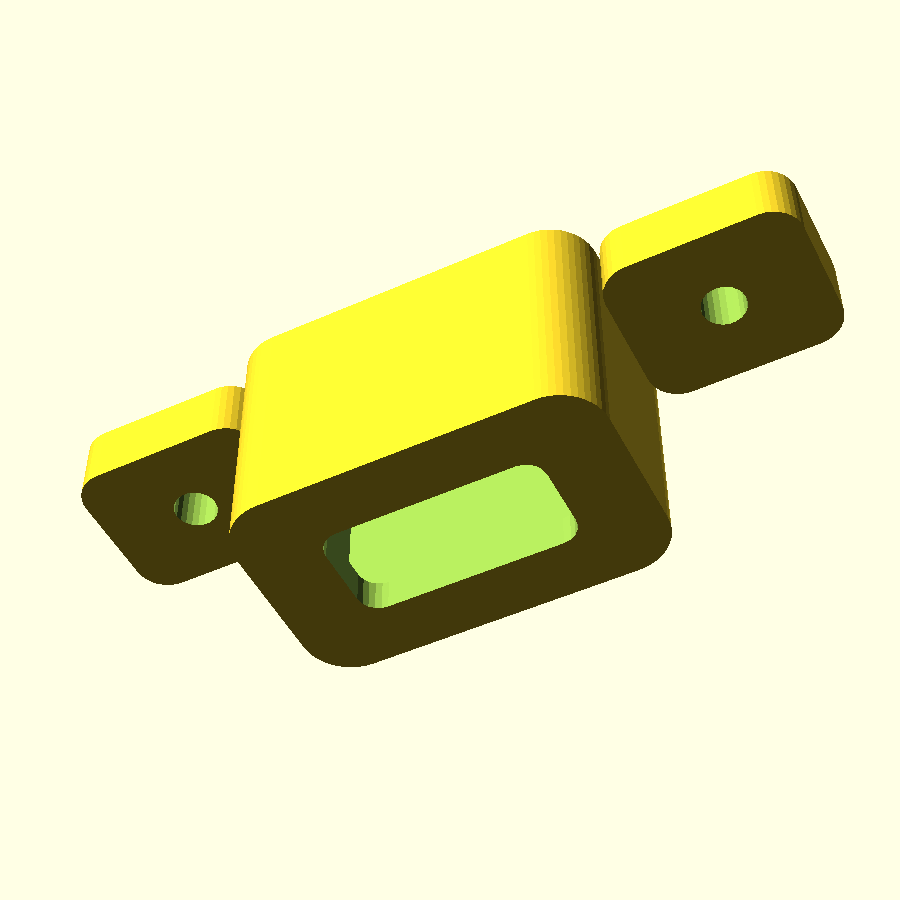
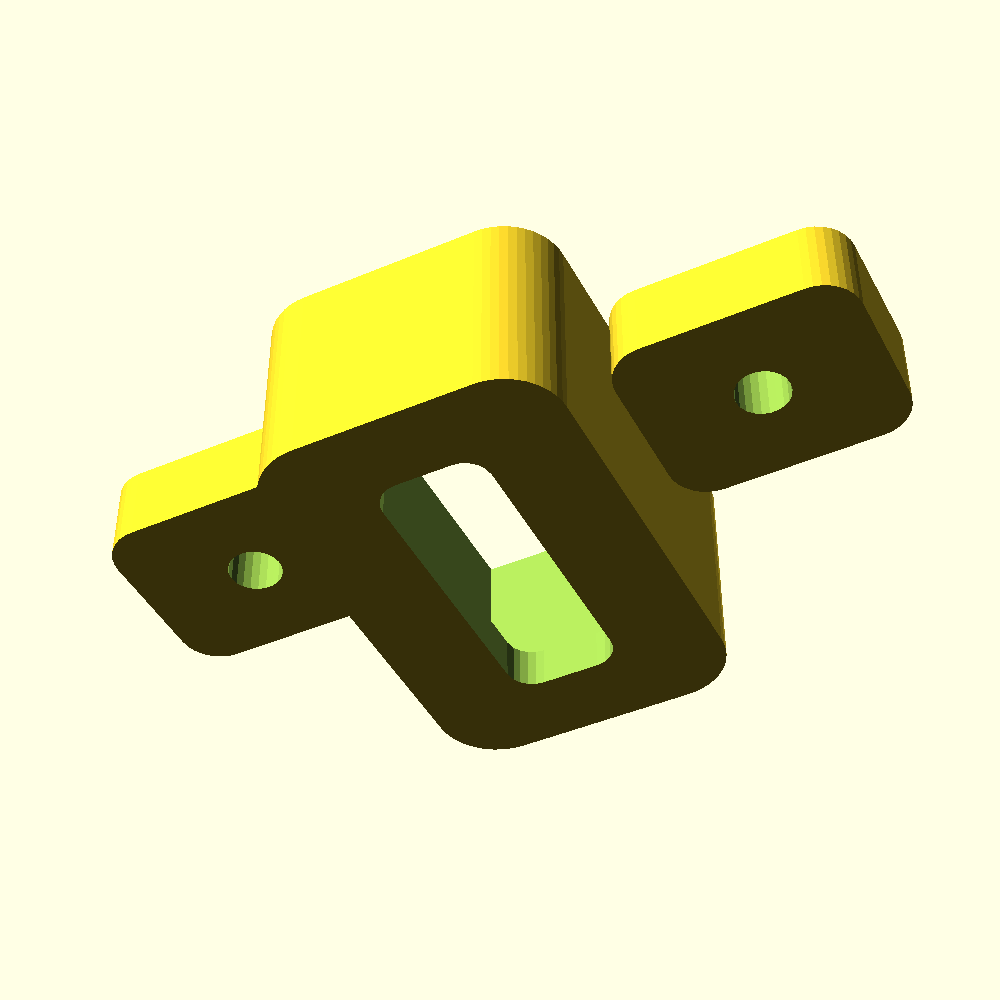
Pod: update to real socket dimensions (5.4x15.0mm cutout, 10mm total height)
Measured off the actual delivered socket, superseding the earlier
CHT-TS023R drawing estimate. Cutout 5.4x15.0mm R1.3 in a 2.0mm face;
cavity resized to [10,18,8] to keep clearance around the new
proportions; total pod height confirmed 10.0mm by measuring the
exported STL bbox. Shell re-exported since its cutout/ear holes
derive from the same pwr_cavity.

Changed region(s): [[0.0933, 0.1867, 0.9333, 0.7467]]

diff --git a/README.md b/README.md
@@ -74,11 +74,12 @@ for arbitrary animation frames. Two-layer solution:
    same time. (If your supermini has no diode — no ~0.3 V drop
    between USB VBUS and the 5 V pin — don't plug both in at once.)
 
-Socket: **snap-in pigtail USB-C female, 4P PD/fast-charge variant**
-(NinthQua CHT-TS023R-H160-P4 style — engineering drawing in Carl's
-Downloads). The pod face is its mounting panel: 13.6 × 6.3 mm R1.3
-cutout in a 2.0 mm face; the socket snaps in from the outside, body
-and wires pass straight through into the enclosure. Rated 5 A.
+Socket: **snap-in pigtail USB-C female, 4P PD/fast-charge variant**.
+The pod face is its mounting panel: **5.4 × 15.0 mm R1.3 cutout in a
+2.0 mm face** (measured off the actual delivered part — supersedes
+the earlier CHT-TS023R drawing estimate); the socket snaps in from
+the outside, body and wires pass straight through into the enclosure.
+Total pod height is 10.0 mm.
 
 - **Buy the 4P fast-charge/PD pinout (V+, V−, CC1, CC2) — not the
   2P, and not the 4P "data" pinout (D+/D−).** Without CC pins a
@@ -93,9 +94,8 @@ and wires pass straight through into the enclosure. Rated 5 A.
 - **It must present 5 V.** These passthrough sockets don't negotiate
   voltage themselves, but verify with a multimeter before first
   connection to the panel — 9/12/20 V kills WS2812s instantly.
-- Pod dimensions are taken from the CHT-TS023R drawing; if your
-  delivered part differs, adjust `pwr_snap_w/h/r`, `pwr_face_t`,
-  `pwr_cavity` in the Customizer.
+- Pod dimensions (`pwr_snap_w/h/r`, `pwr_face_t`, `pwr_cavity`) are
+  Customizer parameters — adjust them if a future socket differs.
 
 Supporting cast, standard WS2812 practice: **1000 µF electrolytic**
 across 5 V/GND at the panel pigtail (also stops the ESP32 browning
